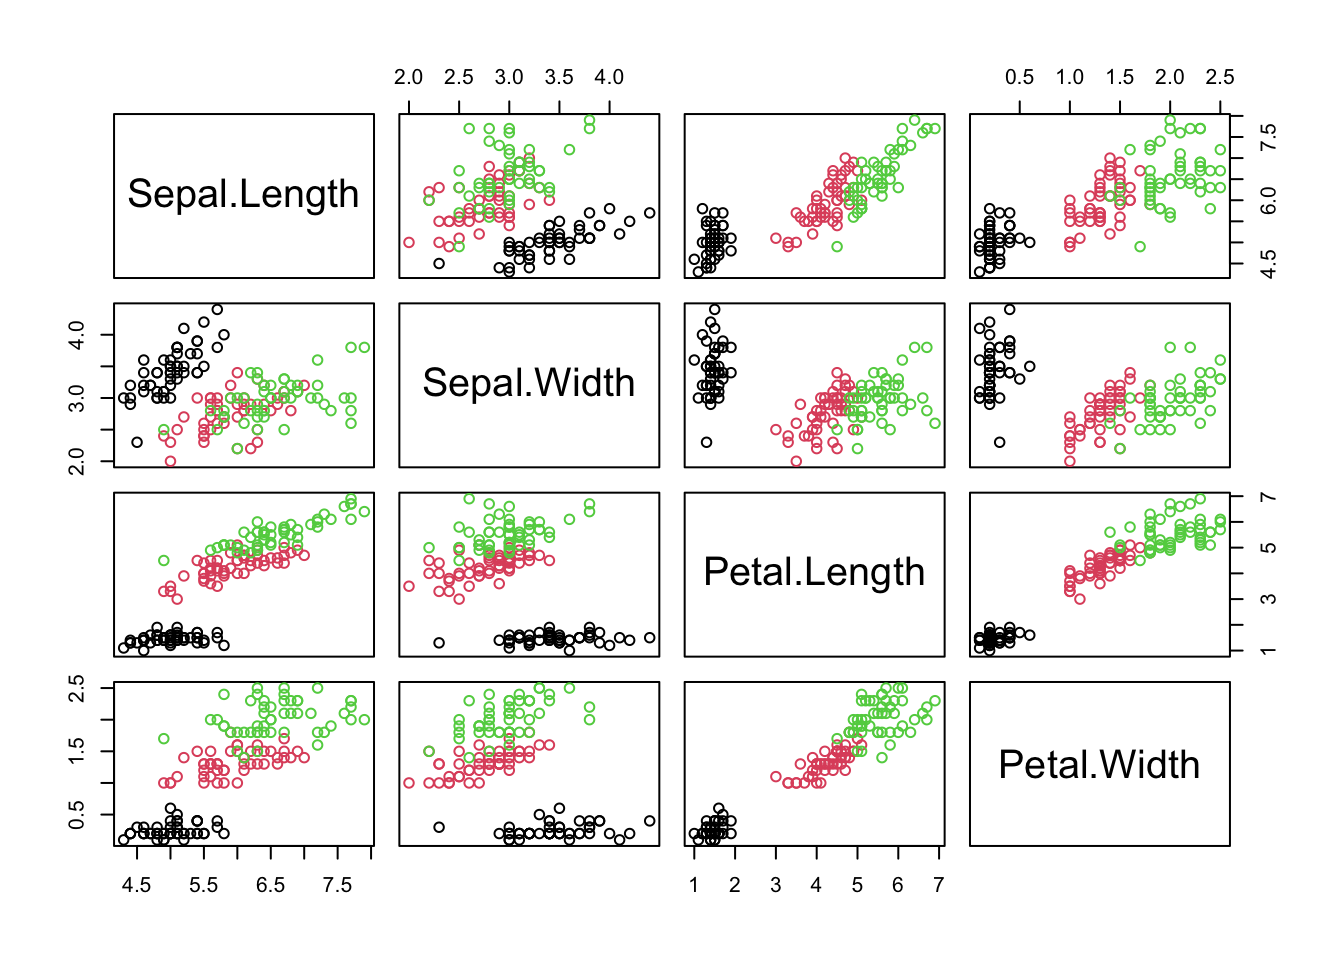
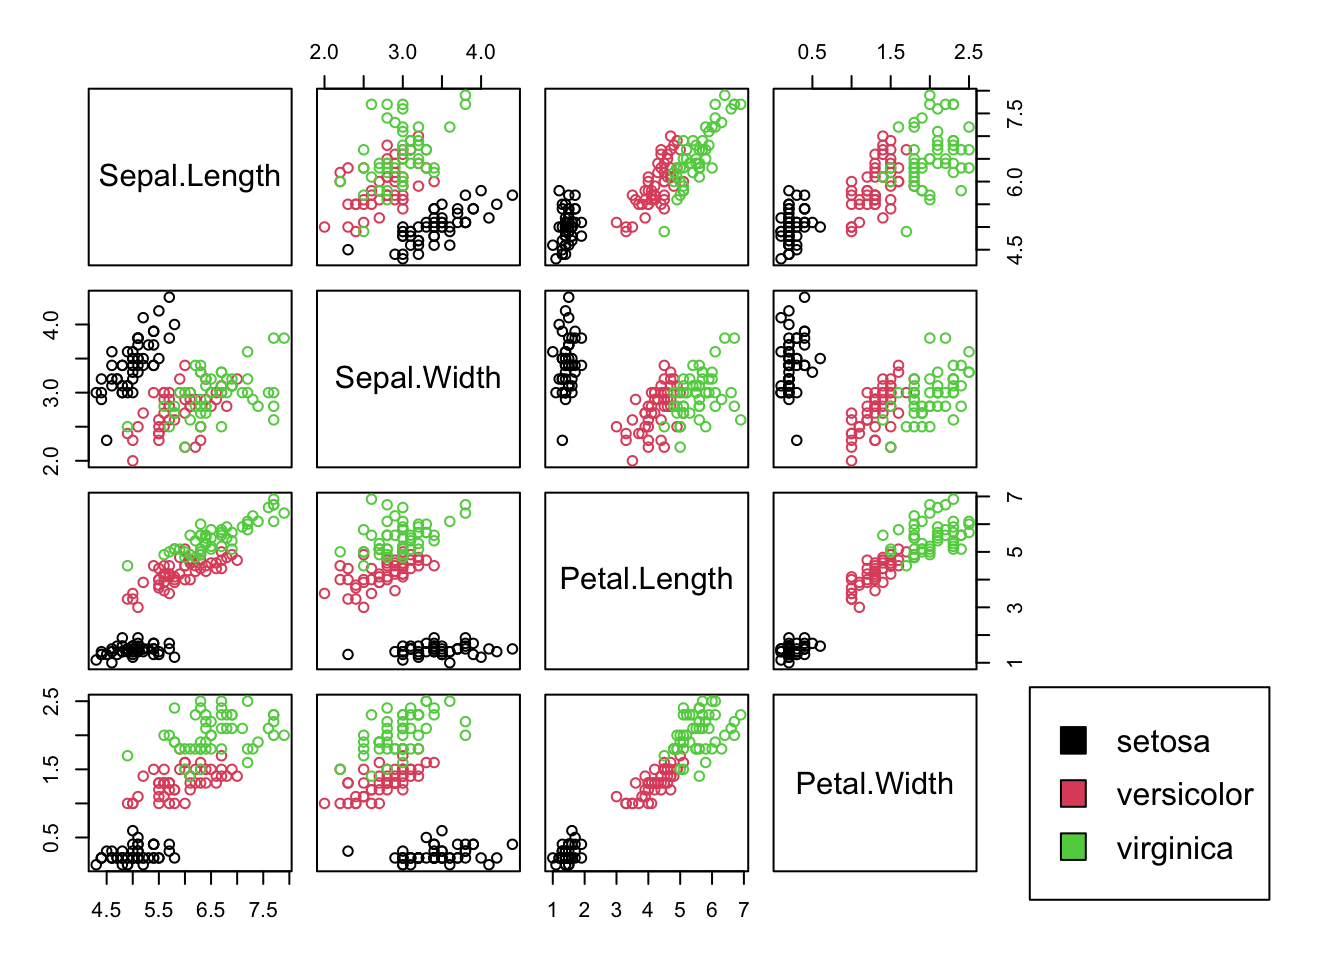
update

diff --git a/stat-learning-machine-learning-R/01-kNN-and-Crossvalidation.md b/stat-learning-machine-learning-R/01-kNN-and-Crossvalidation.md
@@ -4,7 +4,7 @@
 
 ## Iris
 
-PROBLEM STATEMENT: for the *k*NN classifier, compare the 5-fold,
+**PROBLEM STATEMENT**: for the *k*NN classifier, compare the 5-fold,
 10-fold, and leave-one-out cross-validation error rates for *k* = 1, …,
 50 on the classic `Iris` dataset
 
@@ -68,17 +68,29 @@ summary(iris.data)
     ##                      
     ## 
 
-`str` tells us - the dataset has 150 rows (observations) and 5 variables
-(columns) - four of the columns are numeric (continuous) variables - the
-`Species` column is categorical with 3 levels
+`str` tells us
 
-`summary` tells us - the dataset has no missing values (NAs) - the
-observations are equally divided into the three `Species`
+-   the dataset has 150 observations (rows) and 5 variables (columns)
+-   four of the columns are numeric (continuous) variables
+-   the `Species` column is categorical with 3 levels
+
+`summary` tells us
+
+-   the dataset has no missing values (NAs)
+-   the observations are equally divided into the three `Species`
+-   the variables are in different ranges and should therefore be scaled
+    before *k*NN
 
 ``` r
 # pairs plot of the data coloring by Species column
 pairs(~ ., data = iris.data[-5], 
-      col = factor(iris.data[[5]])) 
+      col = factor(iris.data[[5]]), 
+      oma = c(3, 3, 3, 14)) 
+
+par(xpd = TRUE)
+legend("bottomright", 
+       fill = unique(iris$Species), 
+       legend = c(levels(iris$Species)))
 ```
 
 <img src="01-kNN-and-Crossvalidation_files/figure-gfm/unnamed-chunk-3-1.png" width="672" />
@@ -108,7 +120,8 @@ for(i in 1:length(numFolds)){
 set.seed(1250)
 fitList[[i]] <- train(Species ~ .,
                         method = "knn",
-                        tuneGrid = expand.grid(k = 1:50),
+                        tuneGrid = expand.grid(k = 1:50), 
+                        preProcess = c("center", "scale"), 
                         trControl = trControl,
                         metric = "Accuracy",
                         data = iris.data)
@@ -128,8 +141,13 @@ plot(1:50, 1-fitList[[1]]$results$Accuracy,
      xlab = "k (number of nearest neighbors used)", 
      ylab = "Cross-Validation Error Rate", 
      ylim = c(0.01, 0.091))
-points(1:50, 1-fitList[[2]]$results$Accuracy, type = "o", col = "blue")
-points(1:50, 1-fitList[[3]]$results$Accuracy, type = "o", col = "black")
+
+points(1:50, 1-fitList[[2]]$results$Accuracy, 
+       type = "o", col = "blue")
+
+points(1:50, 1-fitList[[3]]$results$Accuracy, 
+       type = "o", col = "black")
+
 legend("topleft", legend = c("5-fold CV", "10-fold CV", "LOOCV"),
        col = c("red", "blue", "black"), lty = 1)
 ```
@@ -138,24 +156,24 @@ legend("topleft", legend = c("5-fold CV", "10-fold CV", "LOOCV"),
 
 ## *k*NN classifer with different distance metrics: USPS digits
 
-PROBLEM STATEMENT: for the *k*NN classifier, compare the test error
+**PROBLEM STATEMENT**: for the *k*NN classifier, compare the test error
 rates for three different distance metrics (Euclidean, Manhattan,
 cosine) on the [USPS handwritten zip code digits
 dataset](https://hastie.su.domains/ElemStatLearn/data.html)
 
-Load the data
+### Load the data
 
 ``` r
 library(tidyverse)
 usps_train <- read_delim(
   "https://hastie.su.domains/ElemStatLearn/datasets/zip.train.gz", 
-  delim = " ", col_names = FALSE)
+  delim = " ", col_names = FALSE, show_col_types = FALSE)
 usps_test <- read_delim(
   "https://hastie.su.domains/ElemStatLearn/datasets/zip.test.gz", 
-  delim = " ", col_names = FALSE)
+  delim = " ", col_names = FALSE, show_col_types = FALSE)
 ```
 
-Look at the data.
+### Look at the data.
 
 [Each row
 is](https://hastie.su.domains/ElemStatLearn/datasets/zip.info.txt) the
@@ -277,7 +295,7 @@ system.time({
 ```
 
     ##    user  system elapsed 
-    ## 518.429  85.339 604.660
+    ## 533.443  88.230 623.977
 
 took \~ 630s to create the matrices
 
@@ -467,9 +485,9 @@ microbenchmark(inv(M),
 ```
 
     ## Unit: milliseconds
-    ##              expr       min        lq      mean    median        uq      max
-    ##            inv(M)  1.362286  1.700369  3.287303  1.844937  4.155216 28.69861
-    ##  apply(M, 1, inv) 13.481559 14.803025 21.273377 16.490991 21.063174 73.93187
+    ##              expr       min        lq      mean    median       uq      max
+    ##            inv(M)  1.350412  1.702676  3.486061  1.751827  4.11231 31.49772
+    ##  apply(M, 1, inv) 13.669532 14.757606 20.273381 16.082692 20.67734 61.11075
     ##  neval cld
     ##    100  a 
     ##    100   b
@@ -520,7 +538,7 @@ proc.time() - ptm
 ```
 
     ##    user  system elapsed 
-    ## 187.837  29.781 217.915
+    ## 195.314  32.447 231.973
 
 ``` r
 # ~3.5 minutes
@@ -715,8 +733,8 @@ gc()
 ```
 
     ##           used  (Mb) gc trigger  (Mb) max used  (Mb)
-    ## Ncells 2696113 144.0    4895551 261.5  4895551 261.5
-    ## Vcells 4596085  35.1   72899204 556.2 91124004 695.3
+    ## Ncells 2705311 144.5    4977384 265.9  4977384 265.9
+    ## Vcells 4618419  35.3   72858343 555.9 91072928 694.9
 
 ``` r
 library(tidyverse)
@@ -785,7 +803,7 @@ proc.time() - ptm
 ```
 
     ##    user  system elapsed 
-    ## 180.770  21.415 202.365
+    ## 184.992  24.105 210.143
 
 ``` r
 # ~3.5 minutes
